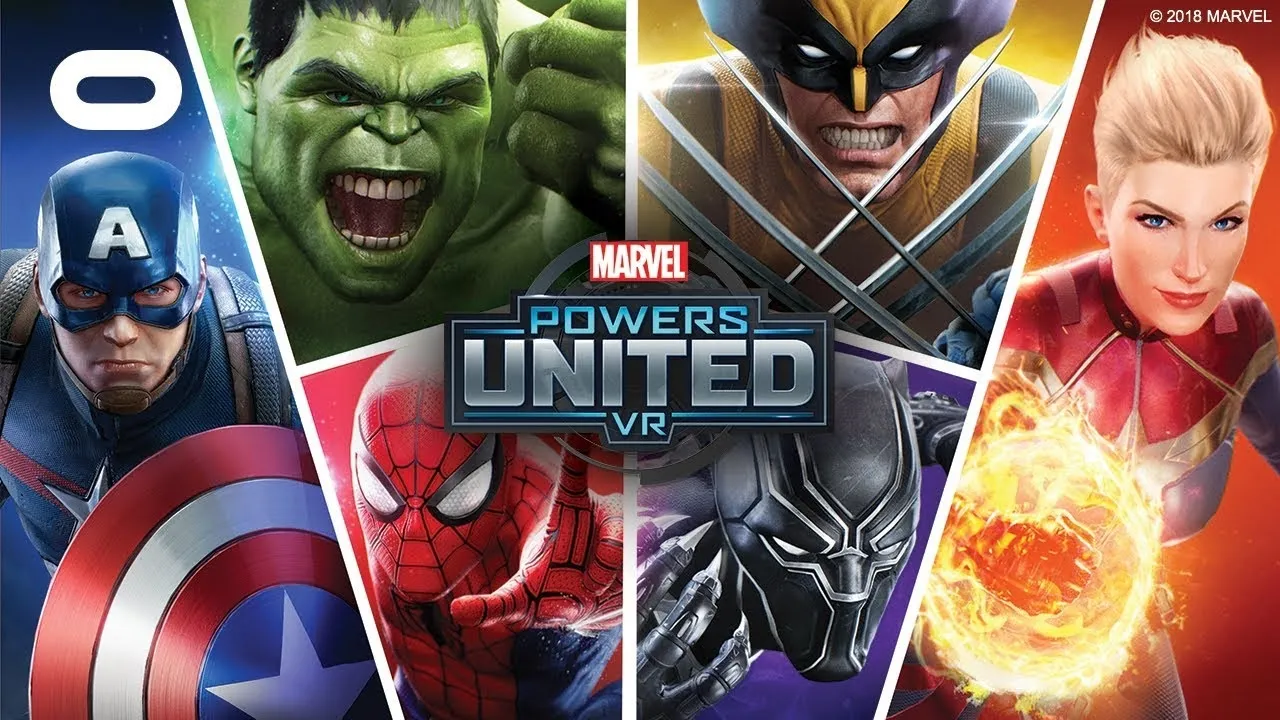
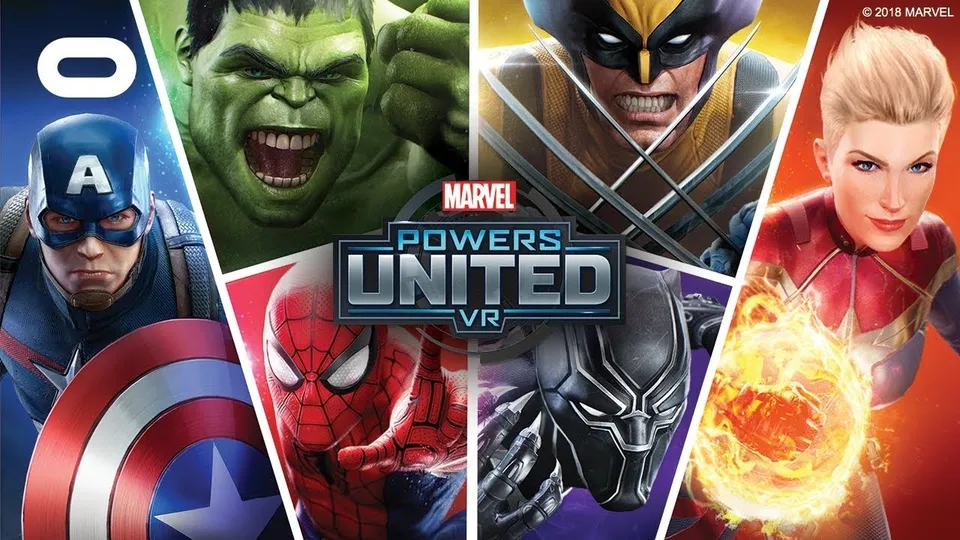
Improve mobile performance: webp backgrounds, async fonts, smaller images
Claude-Session: https://claude.ai/code/session_01AnNbuauqj5pbHZGamcNHXj

Changed region(s): [[0.9062, 0.0, 1.0, 0.0296], [0.6875, 0.7111, 0.7188, 0.7407], [0.625, 0.7111, 0.6562, 0.7407]]

diff --git a/_layouts/demo2.html b/_layouts/demo2.html
@@ -34,7 +34,8 @@ render_with_liquid: false
 </script>
 <link rel="preconnect" href="https://fonts.googleapis.com">
 <link rel="preconnect" href="https://fonts.gstatic.com" crossorigin>
-<link href="https://fonts.googleapis.com/css2?family=DM+Sans:ital,opsz,wght@0,9..40,300;0,9..40,400;0,9..40,500;0,9..40,600;1,9..40,300&family=Space+Grotesk:wght@400;500;600;700&display=swap" rel="stylesheet">
+<link rel="preload" as="style" href="https://fonts.googleapis.com/css2?family=DM+Sans:ital,opsz,wght@0,9..40,300;0,9..40,400;0,9..40,500;0,9..40,600;1,9..40,300&family=Space+Grotesk:wght@400;500;600;700&display=swap" onload="this.onload=null;this.rel='stylesheet'">
+<noscript><link rel="stylesheet" href="https://fonts.googleapis.com/css2?family=DM+Sans:ital,opsz,wght@0,9..40,300;0,9..40,400;0,9..40,500;0,9..40,600;1,9..40,300&family=Space+Grotesk:wght@400;500;600;700&display=swap"></noscript>
 
 <script defer src="https://unpkg.com/react@18.3.1/umd/react.production.min.js" integrity="sha384-DGyLxAyjq0f9SPpVevD6IgztCFlnMF6oW/XQGmfe+IsZ8TqEiDrcHkMLKI6fiB/Z" crossorigin="anonymous"></script>
 <script defer src="https://unpkg.com/react-dom@18.3.1/umd/react-dom.production.min.js" integrity="sha384-gTGxhz21lVGYNMcdJOyq01Edg0jhn/c22nsx0kyqP0TxaV5WVdsSH1fSDUf5YJj1" crossorigin="anonymous"></script>

diff --git a/assets/image-thumbs.js b/assets/image-thumbs.js
@@ -428,23 +428,23 @@ window.IMAGE_THUMBS = {
   ],
   "/assets/img/projects/Meta-Quest-3-Dark.jpg": [
     "/assets/img/thumbs/projects/Meta-Quest-3-Dark.webp",
-    1280,
-    720
+    960,
+    540
   ],
   "/assets/img/projects/asgards-wrath-2.png": [
     "/assets/img/thumbs/projects/asgards-wrath-2.webp",
-    1280,
-    720
+    960,
+    540
   ],
   "/assets/img/projects/asgards-wrath.jpg": [
     "/assets/img/thumbs/projects/asgards-wrath.webp",
-    1280,
-    720
+    960,
+    540
   ],
   "/assets/img/projects/marvelpowersunited.jpg": [
     "/assets/img/thumbs/projects/marvelpowersunited.webp",
-    1280,
-    720
+    960,
+    540
   ],
   "/assets/img/projects/vr-sports-challenge.jpg": [
     "/assets/img/thumbs/projects/vr-sports-challenge.webp",
@@ -453,8 +453,8 @@ window.IMAGE_THUMBS = {
   ],
   "/assets/img/projects/darkmanor.jpg": [
     "/assets/img/thumbs/projects/darkmanor.webp",
-    1280,
-    720
+    960,
+    540
   ],
   "/assets/img/projects/uridiumwars.png": [
     "/assets/img/thumbs/projects/uridiumwars.webp",

diff --git a/_sass/home/_background.scss b/_sass/home/_background.scss
@@ -45,12 +45,12 @@
 }
 
 .stars {
-  background:transparent url(#{$site-url}/assets/img/stars.png) repeat top center;
+  background:transparent url(#{$site-url}/assets/img/stars.webp) repeat top center;
   z-index:0;
 }
 
 .starsB {
-  background:transparent url(#{$site-url}/assets/img/stars.png) repeat top center;
+  background:transparent url(#{$site-url}/assets/img/stars.webp) repeat top center;
   z-index:0;
 	opacity:0.3;
 	-moz-animation:move-clouds-back 500s linear infinite;
@@ -62,7 +62,7 @@
 
 
 .clouds{
-    background:transparent url(#{$site-url}/assets/img/clouds3.png) repeat top center;
+    background:transparent url(#{$site-url}/assets/img/clouds3.webp) repeat top center;
     z-index:0;
 		opacity:0.6;
 
